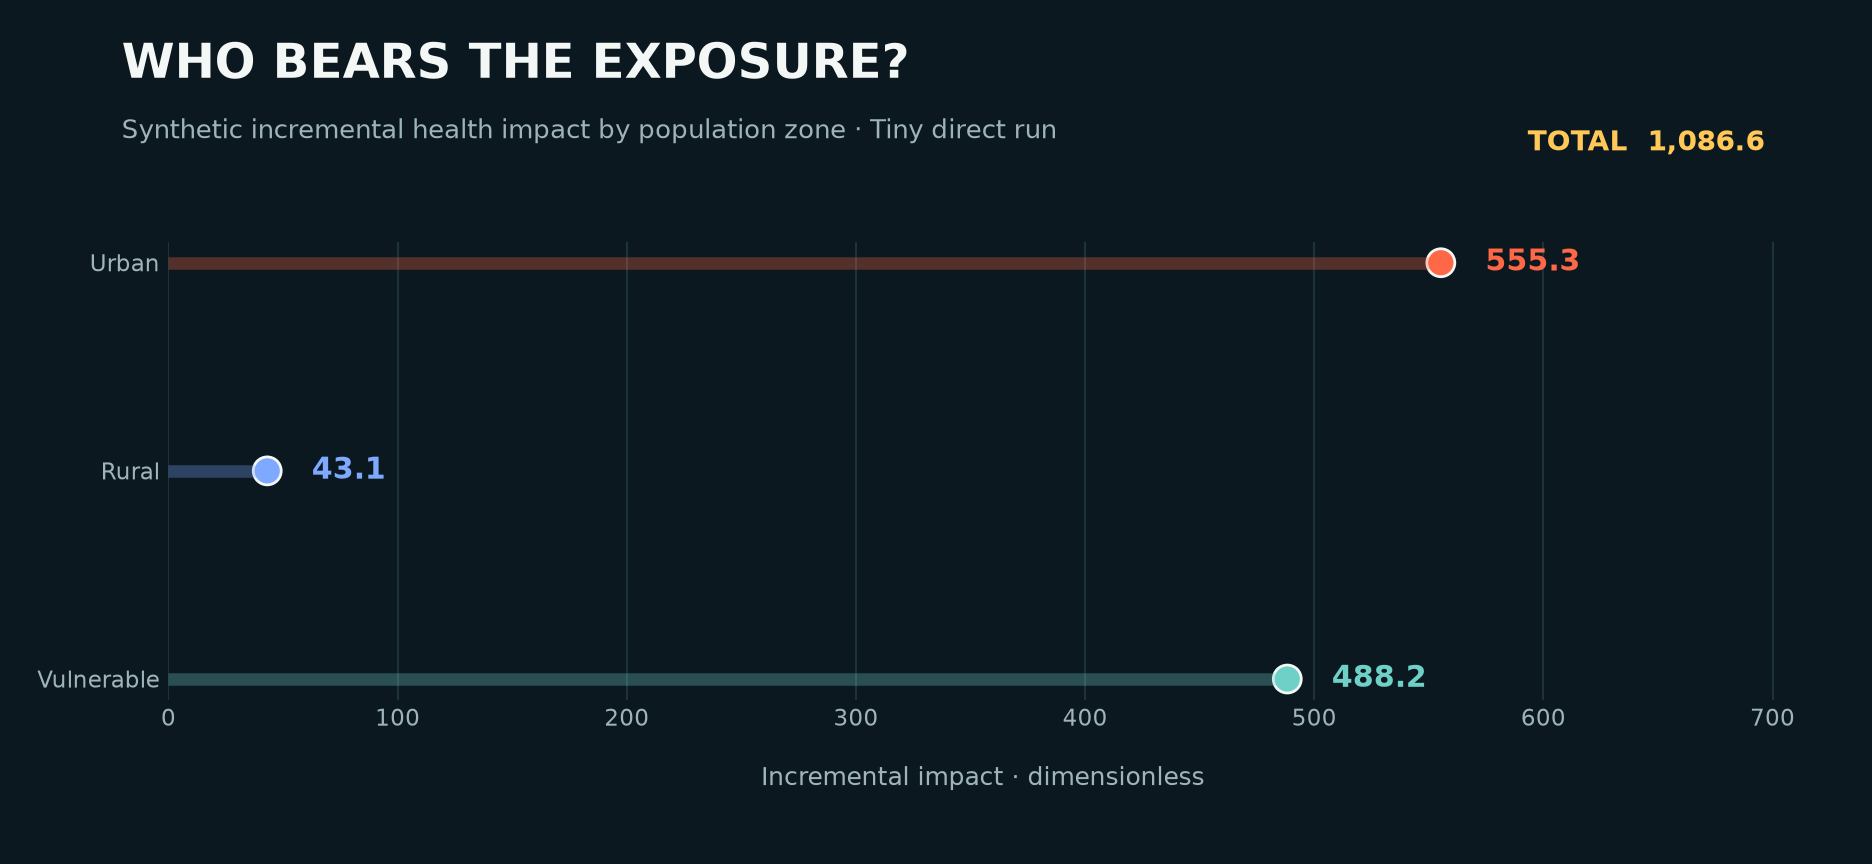
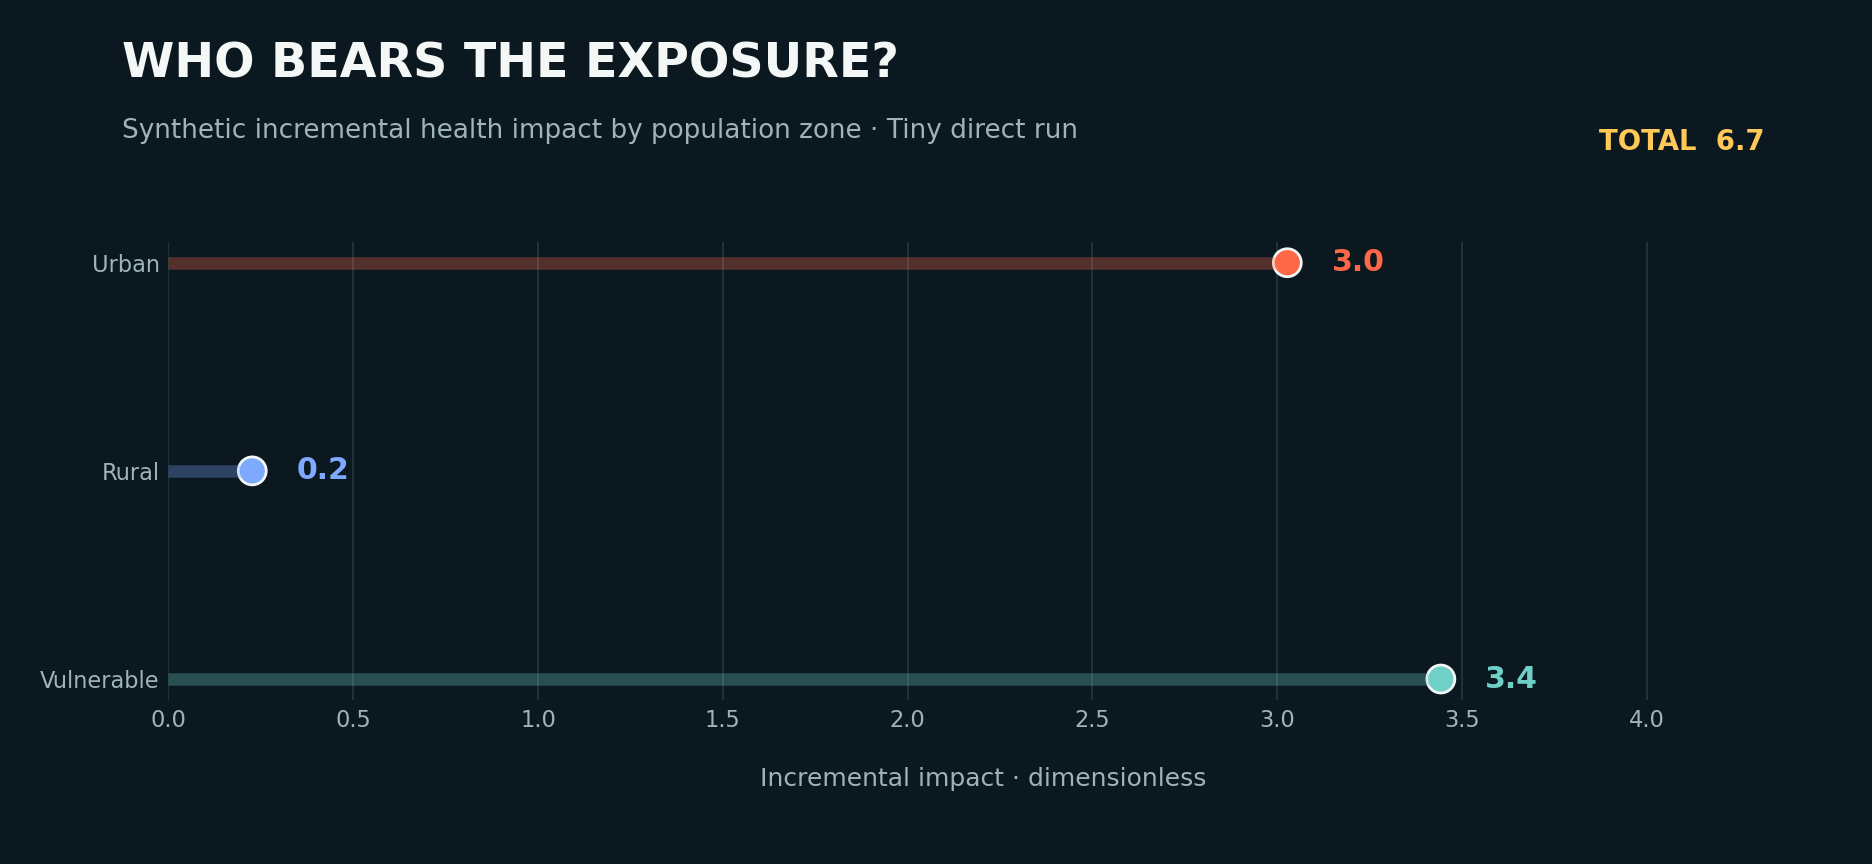
fix(docs): regenerate corrected result visuals

diff --git a/scripts/generate_visualizations.py b/scripts/generate_visualizations.py
@@ -33,8 +33,7 @@ from climacare_shared.fire_model import fire_forward, frame_indices
 from climacare_shared.kernel import KernelNotBuiltError, load_smoke_kernel
 
 DEFAULT_OUTPUT_DIR = ROOT / "docs" / "assets"
-DIRECT_RESULT = ROOT / "results" / "tiny_direct" / "tiny_direct.json"
-PORTFOLIO_RESULT = ROOT / "results" / "portfolio_e5_pipeline.json"
+PORTFOLIO_RESULT = ROOT / "results" / "portfolio_e5_fake.json"
 PREVENTION_RESULT = ROOT / "results" / "prevention" / "prevention.json"
 
 INK = "#0B1820"
@@ -128,6 +127,37 @@ def _simulate_fields(config: TinyConfig) -> tuple[np.ndarray, np.ndarray]:
     )
     return np.asarray(fire_frames), np.asarray(smoke_frames)
 
+
+def _health_payload(
+    config: TinyConfig, smoke_frames: np.ndarray
+) -> dict[str, Any]:
+    """Compute health diagnostics from the current smoke simulation."""
+    frame_dt = config.final_time / (len(smoke_frames) - 1)
+    impacts = []
+    zone_specs = (
+        ((0.3, 0.3), 0.12, 800.0, -2.0, 4.0),
+        ((0.75, 0.25), 0.18, 80.0, -2.5, 3.0),
+        ((0.6, 0.7), 0.06, 250.0, -1.0, 6.0),
+    )
+    mesh_x, mesh_y = config.grid.meshgrid()
+    for (center_x, center_y), sigma, peak, baseline, slope in zone_specs:
+        density = peak * np.exp(
+            -((mesh_x - center_x) ** 2 + (mesh_y - center_y) ** 2)
+            / (2.0 * sigma**2)
+        )
+        population = config.grid.cell_area * density.sum()
+        exposure = (
+            frame_dt
+            * config.grid.cell_area
+            * np.sum(smoke_frames * density[None, :, :])
+            / population
+        )
+        impact = population * (
+            np.logaddexp(0.0, baseline + slope * exposure)
+            - np.logaddexp(0.0, baseline)
+        )
+        impacts.append(float(impact))
+    return {"diagnostics": {"health_impacts_per_zone": impacts}}
 
 def _style_axis(axis: plt.Axes) -> None:
     axis.set_facecolor(PANEL)
@@ -368,7 +398,7 @@ def render_portfolio_outcomes(portfolio: dict[str, Any], output_path: Path) -> N
     figure.text(
         0.055,
         0.84,
-        "Expected loss and tail risk under synthetic portfolio policies · E5 pipeline run",
+        "Expected total loss and tail risk under corrected synthetic scenarios",
         color=MUTED,
         fontsize=10.5,
     )
@@ -411,8 +441,12 @@ def render_portfolio_outcomes(portfolio: dict[str, Any], output_path: Path) -> N
         axis.set_axisbelow(True)
         for spine in axis.spines.values():
             spine.set_visible(False)
-
     reduction = 100 * (1 - expected[-1] / expected[0])
+    badge_text = (
+        f"OPTIMIZED EXPECTED LOSS  −{reduction:.1f}%"
+        if reduction >= 0.05
+        else "OPTIMIZED TOTAL LOSS ≈ UNIFORM"
+    )
     badge = FancyBboxPatch(
         (0.675, 0.745),
         0.29,
@@ -427,7 +461,7 @@ def render_portfolio_outcomes(portfolio: dict[str, Any], output_path: Path) -> N
     figure.text(
         0.692,
         0.758,
-        f"OPTIMIZED EXPECTED LOSS  −{reduction:.1f}%",
+        badge_text,
         color=EMBER,
         fontsize=8.2,
         weight="bold",
@@ -486,20 +520,17 @@ def main() -> None:
     output_dir.mkdir(parents=True, exist_ok=True)
 
     config = load_tiny_config()
-    direct = _load_json(DIRECT_RESULT)
     portfolio = _load_json(PORTFOLIO_RESULT)
     prevention = _load_json(PREVENTION_RESULT)
+    fire_frames, smoke_frames = _simulate_fields(config)
+    direct = _health_payload(config, smoke_frames)
 
     animation_path = output_dir / "tiny_fire_smoke.gif"
     health_path = output_dir / "health_impacts.png"
     portfolio_path = output_dir / "portfolio_outcomes.png"
     prevention_path = output_dir / "prevention_optimization.png"
 
-    if animation_path.exists():
-        print(f"kept {animation_path.relative_to(ROOT)} (local C++ kernel unavailable)")
-    else:
-        fire_frames, smoke_frames = _simulate_fields(config)
-        render_field_animation(config, fire_frames, smoke_frames, animation_path)
+    render_field_animation(config, fire_frames, smoke_frames, animation_path)
     render_health_impacts(direct, health_path)
     render_portfolio_outcomes(portfolio, portfolio_path)
     render_prevention_optimization(prevention, prevention_path)
